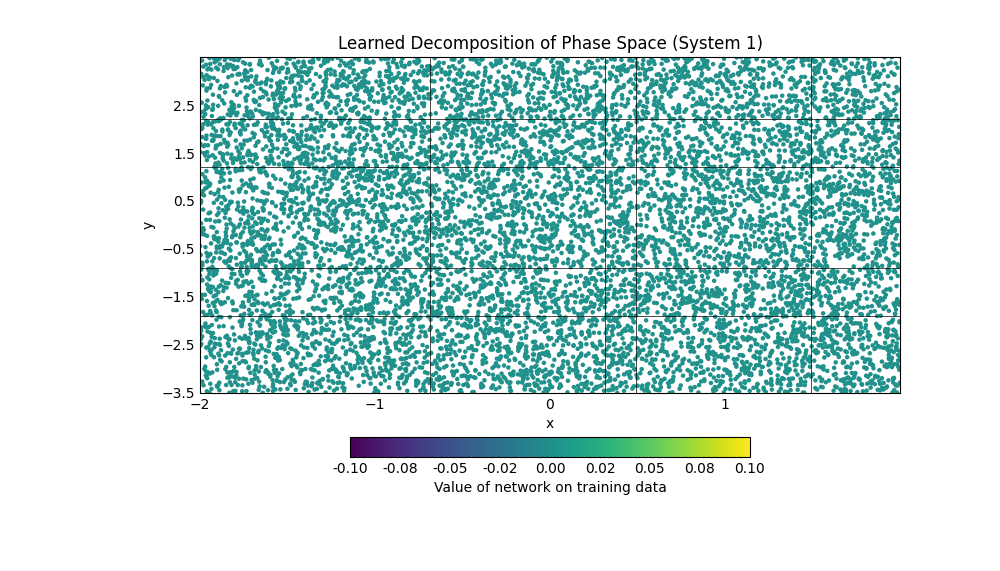
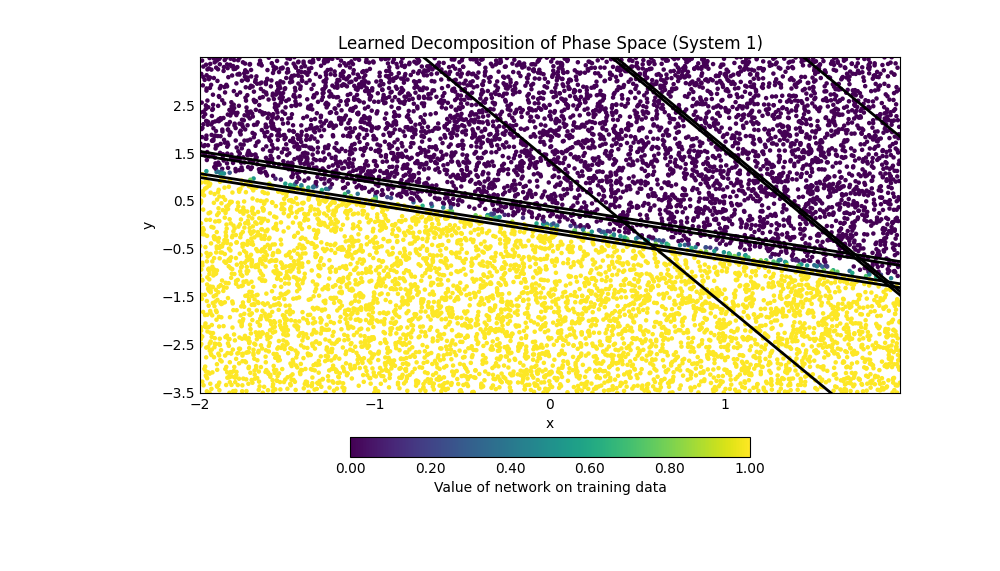
added comments to main; changed code to depend on labeling threshold list rather than single labeling threshold

Changed region(s): [[0.186, 0.0893, 0.899, 0.7145], [0.341, 0.8039, 0.775, 0.8336]]

diff --git a/src/experiment.py b/src/experiment.py
@@ -5,42 +5,49 @@ from .network import save_model, load_model, get_batch_size
 from .misc import get_list_to_write
 from .figure import make_figure, make_loss_plots
 from .data import data_set_up
+from .compute_example import compute_example
 
 class Experiment:
-    def __init__(self, labeling_threshold_list, N_list, ):
+    def __init__(self, labeling_threshold_list, N_list):
         self.labeling_threshold_list = labeling_threshold_list
         self.N_list = N_list
 
     def generate_parameter_lists(self):
         parameter_list = []
-        for base in self.base_list:
-            for fexp in self.fexp_list:
-                for bexp in self.bexp_list:
-                    for penalty_max in self.penalty_max_list:
-                        for separatrix_self_penalty in self.separatrix_self_penalty_list:
-                            parameter_list.append([base, fexp, bexp, penalty_max, separatrix_self_penalty])
+        for N in self.N_list:
+            for labeling_threshold in self.labeling_threshold_list:
+                parameter_list.append([N, labeling_threshold])
         return parameter_list
 
-    def get_experiment_parameters(self, job_index):
-        return self.generate_parameter_lists()[job_index]
+    def get_experiment_parameters(self, example_index):
+        return self.generate_parameter_lists()[example_index]
+    
+    def run_experiment(self, job_index):
+        parameter_list = self.generate_parameter_lists()
+        num_parameter_combinations = len(parameter_list)
+        for i in range(num_parameter_combinations):
+            example_index = job_index * num_parameter_combinations + i
+            N = parameter_list[i][0]
+            labeling_threshold = parameter_list[i][1]
+            compute_example(config, example_index, N, labeling_threshold)
 
-def compute_example(config, job_index, N, labeling_threshold):
-    with open(f'output/results/system{config.system}/results_system{config.system}_example_{job_index}.csv', 'w', newline='') as file:
+def compute_example(config, example_index, N, labeling_threshold):
+    with open(f'output/results/system{config.system}/{example_index}-results.csv', 'w', newline='') as file:
         writer = csv.writer(file)
         writer.writerow(["ex_num", "N", "optimizer_choice", "learning_rate", "epsilon", "num_cubes", "final_test_loss", "hom_uncertain", "hom_zero", "hom_one", "hom_two", "hom_three"])
 
         train_data, train_dataloader, test_dataloader, figure_dataloader = data_set_up(config)
         batch_size = get_batch_size(train_data, percentage = 0.1)
         trained_network, train_loss_list, test_loss_list = train_and_test(config, N, train_dataloader, test_dataloader, batch_size)
-        save_model(trained_network, job_index, config)
-        model = load_model(N, config, job_index, batch_size = 1)
-        homology_dict, num_cubes_labeled, total_hyperplane_list = get_homology_dict_from_model(config, N, model, train_data, job_index, labeling_threshold, batch_size = 1)
-        list_to_write = get_list_to_write(config, job_index, N, labeling_threshold, num_cubes_labeled, test_loss_list, homology_dict)
+        save_model(trained_network, example_index, config)
+        model = load_model(N, config, example_index, batch_size = 1)
+        homology_dict, num_cubes_labeled, total_hyperplane_list = get_homology_dict_from_model(config, N, model, train_data, example_index, labeling_threshold, batch_size = 1)
+        list_to_write = get_list_to_write(config, example_index, N, labeling_threshold, num_cubes_labeled, test_loss_list, homology_dict)
         writer.writerow(list_to_write)
         file.flush()
 
         if config.make_figures:
-            model = load_model(N, config, job_index, batch_size = batch_size)
-            make_figure(config, figure_dataloader, model, train_data, total_hyperplane_list, job_index)
-            make_loss_plots(config, job_index, test_loss_list, train_loss_list)
+            model = load_model(N, config, example_index, batch_size = batch_size)
+            make_figure(config, figure_dataloader, model, train_data, total_hyperplane_list, example_index)
+            make_loss_plots(config, example_index, test_loss_list, train_loss_list)
 

diff --git a/src/compute_example.py b/src/compute_example.py
@@ -5,24 +5,28 @@ from .network import save_model, load_model, get_batch_size
 from .misc import get_list_to_write
 from .figure import make_figure, make_loss_plots
 from .data import data_set_up
+from .decomposition import get_decomposition_data
 
-def compute_example(config, job_index, N, labeling_threshold):
-    with open(f'output/results/system{config.system}/results_system{config.system}_example_{job_index}.csv', 'w', newline='') as file:
+def compute_example(config, example_index, N, labeling_threshold_list):
+    with open(f'output/results/system{config.system}/{example_index}-results.csv', 'w', newline='') as file:
         writer = csv.writer(file)
         writer.writerow(["ex_num", "N", "optimizer_choice", "learning_rate", "epsilon", "num_cubes", "final_test_loss", "hom_uncertain", "hom_zero", "hom_one", "hom_two", "hom_three"])
 
         train_data, train_dataloader, test_dataloader, figure_dataloader = data_set_up(config)
         batch_size = get_batch_size(train_data, percentage = 0.1)
         trained_network, train_loss_list, test_loss_list = train_and_test(config, N, train_dataloader, test_dataloader, batch_size)
-        save_model(trained_network, job_index, config)
-        model = load_model(N, config, job_index, batch_size = 1)
-        homology_dict, num_cubes_labeled, total_hyperplane_list = get_homology_dict_from_model(config, N, model, train_data, job_index, labeling_threshold, batch_size = 1)
-        list_to_write = get_list_to_write(config, job_index, N, labeling_threshold, num_cubes_labeled, test_loss_list, homology_dict)
-        writer.writerow(list_to_write)
-        file.flush()
+        save_model(trained_network, example_index, config)
+        model = load_model(N, config, example_index, batch_size = 1)
+        sorted_hyperplane_dict, list_of_hyperplane_lists, total_hyperplane_list = get_decomposition_data(config, N, example_index, batch_size, train_data)
+        
+        for labeling_threshold in labeling_threshold_list:
+            homology_dict, num_cubes_labeled, total_hyperplane_list = get_homology_dict_from_model(config, model, labeling_threshold, sorted_hyperplane_dict, list_of_hyperplane_lists, total_hyperplane_list)
+            list_to_write = get_list_to_write(config, example_index, N, labeling_threshold, num_cubes_labeled, test_loss_list, homology_dict)
+            writer.writerow(list_to_write)
+            file.flush()
 
         if config.make_figures:
-            model = load_model(N, config, job_index, batch_size = batch_size)
-            make_figure(config, figure_dataloader, model, train_data, total_hyperplane_list, job_index)
-            make_loss_plots(config, job_index, test_loss_list, train_loss_list)
+            model = load_model(N, config, example_index, batch_size = batch_size)
+            make_figure(config, figure_dataloader, model, train_data, total_hyperplane_list, example_index)
+            make_loss_plots(config, example_index, test_loss_list, train_loss_list)
 

diff --git a/src/figure.py b/src/figure.py
@@ -25,7 +25,7 @@ def get_network_value_list(config, dataloader, model):
                 result_list.append(float(pred_thresh[i]))
     return result_list
 
-def make_figure(config, train_dataloader, model, data, total_hyperplane_list, job_index):
+def make_figure(config, train_dataloader, model, data, total_hyperplane_list, example_index):
     total_hyperplane_list.extend(generate_domain_bounding_hyperplanes(config))
     result_list = get_network_value_list(config, train_dataloader, model)
     data_bounds = config.data_bounds
@@ -82,16 +82,16 @@ def make_figure(config, train_dataloader, model, data, total_hyperplane_list, jo
     scatter = ax.scatter(scatterx1, scattery1, marker ='o', s = 5, cmap = 'viridis', c = result_list)
     cbar = fig1.colorbar(scatter, orientation = 'horizontal', fraction=0.05, pad=.11, format="%.2f")
     cbar.set_label(label = 'Value of network on training data')
-    filename = f'output/figures/system{config.system}/{job_index}-decomposition.png'
+    filename = f'output/figures/system{config.system}/{example_index}-decomposition.png'
     plt.savefig(filename)
     plt.close(fig1)
 
-def make_loss_plots(config, job_index, test_loss_list, train_loss_list):
+def make_loss_plots(config, example_index, test_loss_list, train_loss_list):
     fig2 = plt.figure(figsize=(15,5))
     ax = fig2.add_subplot(111)
     example_type = config.example_type
     system = config.system
-    ax.set_title('Test and train loss: '+ example_type + f' (System {system}, Example {job_index})')
+    ax.set_title('Test and train loss: '+ example_type + f' (System {system}, Example {example_index})')
     ax.set_xlabel('Epoch Number')
     ax.set_ylabel('Loss')
 
@@ -106,6 +106,6 @@ def make_loss_plots(config, job_index, test_loss_list, train_loss_list):
     ax.plot(timelist, test_loss_list, linewidth = 1.2, c = 'blueviolet', linestyle = 'dashed', label = 'Test Loss')
     ax.plot(timelist, train_loss_list, linewidth = 1, c = 'darkorange', label = 'Train Loss')
     ax.legend()
-    filename = f'output/figures/system{system}/{job_index}-loss.png'
+    filename = f'output/figures/system{system}/{example_index}-loss.png'
     plt.savefig(filename)
     plt.close(fig2)

diff --git a/src/decomposition.py b/src/decomposition.py
@@ -1,6 +1,8 @@
 import numpy as np
 from .hyperplane import Hyperplane, data_is_on_one_side_of_hyperplane
 from copy import deepcopy
+from .network import load_model, get_model_parameters, make_coordinate_to_weights_dict
+from .data import convert_data_to_tensors
 
 def add_boundaries(config, hyperplane_list, data_as_tensors, is_boundary_hyperplane_dict):
     d = config.dimension
@@ -131,3 +133,14 @@ def get_hyperplane_data(config, hyperplane_dict, data_as_tensors, is_boundary_hy
         total_hyperplane_list.extend(sorted_hyperplane_list_with_single_boundaries)
         sorted_hyperplane_dict[k] = sorted_hyperplane_list_with_single_boundaries
     return list_of_hyperplane_lists, sorted_hyperplane_dict, total_hyperplane_list
+
+
+def get_decomposition_data(config, N, example_index, batch_size, data):
+    cube_reg_model = load_model(N, config, example_index, batch_size)
+    parameter_dict = get_model_parameters(cube_reg_model)
+    coordinate_to_weights_dict = make_coordinate_to_weights_dict(config, parameter_dict["shared_weight_matrix"], N)
+    data_as_tensors = convert_data_to_tensors(data, config.dimension)
+    hyperplane_dict, is_boundary_hyperplane_dict = make_hyperplane_dicts(config, coordinate_to_weights_dict, N, parameter_dict["biaslist"], data_as_tensors, parameter_dict["weight_coefficients"])
+    list_of_hyperplane_lists, sorted_hyperplane_dict, total_hyperplane_list = get_hyperplane_data(config, hyperplane_dict, data_as_tensors, is_boundary_hyperplane_dict)
+
+    return sorted_hyperplane_dict, list_of_hyperplane_lists, total_hyperplane_list

diff --git a/src/homology.py b/src/homology.py
@@ -1,19 +1,9 @@
-from .decomposition import make_hyperplane_dicts, get_hyperplane_data
 from .label_cubes import get_labeled_cubes, get_num_cubes_labeled
-from .network import load_model, get_model_parameters, make_coordinate_to_weights_dict
+from .decomposition import get_decomposition_data
 from .data import convert_data_to_tensors
 import pychomp2 as pychomp
 
-def get_homology_dict_from_model(config, N, model, data, job_index, labeling_threshold, batch_size = 1):
-    cube_reg_model = load_model(N, config, job_index, batch_size)
-    parameter_dict = get_model_parameters(cube_reg_model)
-
-    coordinate_to_weights_dict = make_coordinate_to_weights_dict(config, parameter_dict["shared_weight_matrix"], N)
-
-    data_as_tensors = convert_data_to_tensors(data, config.dimension)
-    hyperplane_dict, is_boundary_hyperplane_dict = make_hyperplane_dicts(config, coordinate_to_weights_dict, N, parameter_dict["biaslist"], data_as_tensors, parameter_dict["weight_coefficients"])
-    list_of_hyperplane_lists, sorted_hyperplane_dict, total_hyperplane_list = get_hyperplane_data(config, hyperplane_dict, data_as_tensors, is_boundary_hyperplane_dict)
-
+def get_homology_dict_from_model(config, model, labeling_threshold, sorted_hyperplane_dict, list_of_hyperplane_lists, total_hyperplane_list):
     label_to_cubes_dict = get_labeled_cubes(config, sorted_hyperplane_dict, list_of_hyperplane_lists, model, labeling_threshold)
     num_cubes_labeled = get_num_cubes_labeled(config, label_to_cubes_dict)
     homology_dict = get_label_to_homology_dict(config, label_to_cubes_dict)

diff --git a/src/misc.py b/src/misc.py
@@ -1,5 +1,5 @@
-def get_initial_list_to_write(config, job_index, N, labeling_threshold, num_cubes_labeled, test_loss_list):
-    initial_list = [job_index, N, config.optimizer_choice, config.learning_rate, labeling_threshold, num_cubes_labeled, test_loss_list[-1],]
+def get_initial_list_to_write(config, example_index, N, labeling_threshold, num_cubes_labeled, test_loss_list):
+    initial_list = [example_index, N, config.optimizer_choice, config.learning_rate, labeling_threshold, num_cubes_labeled, test_loss_list[-1],]
     return initial_list
 
 def get_final_list_to_write(config, initial_list, homology_dict):
@@ -7,6 +7,6 @@ def get_final_list_to_write(config, initial_list, homology_dict):
         initial_list.append(homology_dict[label])
     return initial_list
 
-def get_list_to_write(config, job_index, N, labeling_threshold, num_cubes_labeled, test_loss_list, homology_dict):
-    initial_list = get_initial_list_to_write(config, job_index, N, labeling_threshold, num_cubes_labeled, test_loss_list)
+def get_list_to_write(config, example_index, N, labeling_threshold, num_cubes_labeled, test_loss_list, homology_dict):
+    initial_list = get_initial_list_to_write(config, example_index, N, labeling_threshold, num_cubes_labeled, test_loss_list)
     return get_final_list_to_write(config, initial_list, homology_dict)

diff --git a/src/network.py b/src/network.py
@@ -99,9 +99,9 @@ class Regression_Cubical_Network_One_Nonlinearity(nn.Module):
         output = self.output_layer(self.layer2(layer1_output))
         return output
 
-def load_model(N, config, job_index, batch_size):
+def load_model(N, config, example_index, batch_size):
     cube_reg_model = Regression_Cubical_Network_One_Nonlinearity(N, batch_size, config)
-    cube_reg_model.load_state_dict(torch.load(f'output/models/system{config.system}/jobindex{job_index}.pth'))
+    cube_reg_model.load_state_dict(torch.load(f'output/models/system{config.system}/{example_index}-model.pth'))
     return cube_reg_model
 
 def get_model_parameters(model):
@@ -127,5 +127,5 @@ def make_coordinate_to_weights_dict(config, shared_weight_matrix, N):
         coordinate_to_weights_dict[i] = weight_column_vector
     return coordinate_to_weights_dict
 
-def save_model(model, job_index, config):
-    torch.save(model.state_dict(), f'output/models/system{config.system}/jobindex{job_index}.pth')
+def save_model(model, example_index, config):
+    torch.save(model.state_dict(), f'output/models/system{config.system}/{example_index}-model.pth')

diff --git a/main.py b/main.py
@@ -1,0 +1,26 @@
+from src.compute_example import compute_example
+from src.config import configure
+
+'''' Global variables set by user '''
+
+# system is an integer that refers to which dynamical system the user would like to use
+system = 1
+
+# N is the number of nodes in the hidden layer of the network
+N = 4
+
+# labeling threshold is the list of labeling thresholds to be used to label the cubes
+labeling_threshold_list = [0.1, 0.3]
+
+# example index gives an integer-valued name to the computation, which corresponds to file names in the folder output
+example_index = 0
+
+''' Main code block '''
+
+def main():
+    config_fname = f'config/system{system}.txt'
+    config = configure(config_fname)
+    compute_example(config, example_index, N, labeling_threshold_list)
+
+if __name__ == "__main__":
+    main()
